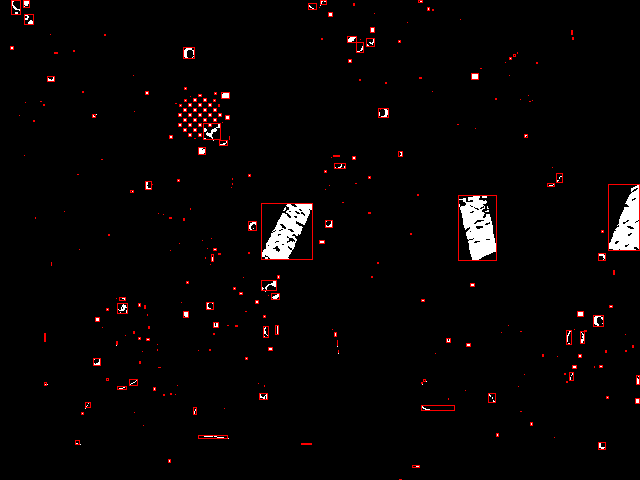
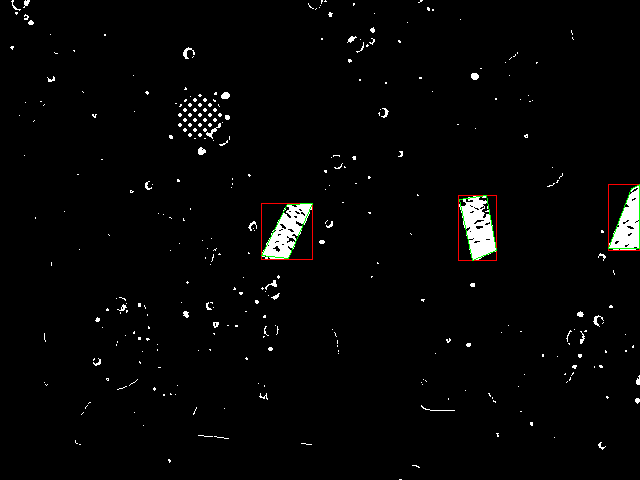
BlobProcessor.js Working!

diff --git a/Scripting/BlobProcessor.js b/Scripting/BlobProcessor.js
@@ -5,72 +5,82 @@ const png = drawing(require('pngjs').PNG);
 let blobs = [];
 let blobPointer = 0;
 let joined = 255; //the index of of the blob is last joined
+let frameBuffer = [...Array(1000)].map(e => Array(1000));
 
 fs.createReadStream('images/2019_Noise2.png')
     .pipe(new png())
-    .on('parsed', function() {
+    .on('parsed', function () {
 
-    //Process all Pixels
-    for (let y = 0; y < this.height; y++) {
-        for (let x = 0; x < this.width; x++) {
-            const idx = (this.width * y + x) << 2;
-            const value = (this.data[idx] + this.data[idx+1] + this.data[idx+2]) / 3; 
+        //Process all Pixels
+        for (let y = 0; y < this.height; y++) {
+            for (let x = 0; x < this.width; x++) {
+                const idx = (this.width * y + x) << 2;
+                const value = (this.data[idx] + this.data[idx + 1] + this.data[idx + 2]) / 3;
+                const threshold = value > 128;
 
-            if (value > 128) {
-                processPixel({x, y});
+                if (threshold) {
+                    processPixel({
+                        x,
+                        y
+                    });
+                }
+
+                frameBuffer[x][y] = threshold;
             }
         }
-    }
 
-    console.log("num:"+blobs.length);
+        console.log("num:" + blobs.length);
 
-    //Draw Blobs
-    for (let i = 0; i < blobs.length; i++) {
-        if (blobs[i].valid) {
-            this.drawRect(
-                blobs[i].boundTopLeft.x,
-                blobs[i].boundTopLeft.y,
-                blobs[i].boundBottomRight.x - blobs[i].boundTopLeft.x,
-                blobs[i].boundBottomRight.y - blobs[i].boundTopLeft.y,
-                this.colors.red(255)
-            );
+        //Draw Blobs
+        for (let i = 0; i < blobs.length; i++) {
+            const area = (blobs[i].boundBottomRight.x - blobs[i].boundTopLeft.x) * (blobs[i].boundBottomRight.y - blobs[i].boundTopLeft.y);
+            if (blobs[i].valid && area > 1000) {
+                this.drawRect(
+                    blobs[i].boundTopLeft.x,
+                    blobs[i].boundTopLeft.y,
+                    blobs[i].boundBottomRight.x - blobs[i].boundTopLeft.x,
+                    blobs[i].boundBottomRight.y - blobs[i].boundTopLeft.y,
+                    this.colors.red(255)
+                );
 
-            // this.drawLine(
-            //     blobs[i].cornerTopLeft.x,
-            //     blobs[i].cornerTopLeft.y,
-            //     blobs[i].cornerTopRight.x,
-            //     blobs[i].cornerTopRight.y,
-            //     this.colors.green(255)
-            // );
+                const stats = getStats(blobs[i]);
 
-            // this.drawLine(
-            //     blobs[i].cornerTopRight.x,
-            //     blobs[i].cornerTopRight.y,
-            //     blobs[i].cornerBottomRight.x,
-            //     blobs[i].cornerBottomRight.y,
-            //     this.colors.green(255)
-            // );
+                this.drawLine(
+                    stats.cornerTopLeft.x,
+                    stats.cornerTopLeft.y,
+                    stats.cornerTopRight.x,
+                    stats.cornerTopRight.y,
+                    this.colors.green(255)
+                );
 
-            // this.drawLine(
-            //     blobs[i].cornerBottomRight.x,
-            //     blobs[i].cornerBottomRight.y,
-            //     blobs[i].cornerBottomLeft.x,
-            //     blobs[i].cornerBottomLeft.y,
-            //     this.colors.green(255)
-            // );
+                this.drawLine(
+                    stats.cornerTopRight.x,
+                    stats.cornerTopRight.y,
+                    stats.cornerBottomRight.x,
+                    stats.cornerBottomRight.y,
+                    this.colors.green(255)
+                );
 
-            // this.drawLine(
-            //     blobs[i].cornerBottomLeft.x,
-            //     blobs[i].cornerBottomLeft.y,
-            //     blobs[i].cornerTopLeft.x,
-            //     blobs[i].cornerTopLeft.y,
-            //     this.colors.green(255)
-            // );
+                this.drawLine(
+                    stats.cornerBottomRight.x,
+                    stats.cornerBottomRight.y,
+                    stats.cornerBottomLeft.x,
+                    stats.cornerBottomLeft.y,
+                    this.colors.green(255)
+                );
+
+                this.drawLine(
+                    stats.cornerBottomLeft.x,
+                    stats.cornerBottomLeft.y,
+                    stats.cornerTopLeft.x,
+                    stats.cornerTopLeft.y,
+                    this.colors.green(255)
+                );
+            }
         }
-    }
 
-    this.pack().pipe(fs.createWriteStream('out.png'));
-});
+        this.pack().pipe(fs.createWriteStream('out.png'));
+    });
 
 //Process Pixel
 function processPixel(pos) {
@@ -80,7 +90,7 @@ function processPixel(pos) {
     for (let i = 0; i < blobs.length; i++) {
         //if point inside blob bounding box
         if (blobs[i].valid &&
-            pos.x + 2 > blobs[i].boundTopLeft.x && 
+            pos.x + 2 > blobs[i].boundTopLeft.x &&
             pos.x - 2 < blobs[i].boundBottomRight.x &&
             pos.y + 2 > blobs[i].boundTopLeft.y &&
             pos.y - 2 < blobs[i].boundBottomRight.y) {
@@ -94,24 +104,6 @@ function processPixel(pos) {
                 blobs[i].boundTopLeft.y = min(blobs[i].boundTopLeft.y, blobs[joined].boundTopLeft.y);
                 blobs[i].boundBottomRight.x = max(blobs[i].boundBottomRight.x, blobs[joined].boundBottomRight.x);
                 blobs[i].boundBottomRight.y = max(blobs[i].boundBottomRight.y, blobs[joined].boundBottomRight.y);
-                                    
-                //make new corners
-                // if (blobs[joined].cornerTopLeft.x+blobs[joined].cornerTopLeft.y < blobs[i].cornerTopLeft.x+blobs[i].cornerTopLeft.y) {
-                //     blobs[i].cornerTopLeft.x = blobs[joined].cornerTopLeft.x;
-                //     blobs[i].cornerTopLeft.y = blobs[joined].cornerTopLeft.y;
-                // }
-                // else if (blobs[joined].cornerTopRight.x-blobs[joined].cornerTopRight.y > blobs[i].cornerTopRight.x-blobs[i].cornerTopRight.y) {
-                //     blobs[i].cornerTopRight.x = blobs[joined].cornerTopRight.x;
-                //     blobs[i].cornerTopRight.y = blobs[joined].cornerTopRight.y;
-                // }
-                // else if (blobs[joined].cornerBottomRight.x+blobs[joined].cornerBottomRight.y > blobs[i].cornerBottomRight.x+blobs[i].cornerBottomRight.y) {
-                //     blobs[i].cornerBottomRight.x = blobs[joined].cornerBottomRight.x;
-                //     blobs[i].cornerBottomRight.y = blobs[joined].cornerBottomRight.y;
-                // }
-                // else if (blobs[joined].cornerBottomLeft.x-blobs[joined].cornerBottomLeft.y < blobs[i].cornerBottomLeft.x-blobs[i].cornerBottomLeft.y) {
-                //     blobs[i].cornerBottomLeft.x = blobs[joined].cornerBottomLeft.x;
-                //     blobs[i].cornerBottomLeft.y = blobs[joined].cornerBottomLeft.y;
-                // }
             }
 
             joined = i;
@@ -125,42 +117,68 @@ function processPixel(pos) {
                 blobs[i].boundTopLeft.y = blobs[i].boundTopLeft.y - 1;
             else if (pos.y + 1 > blobs[i].boundBottomRight.y)
                 blobs[i].boundBottomRight.y = blobs[i].boundBottomRight.y + 1;
-
-            //move corner vertexes
-            // if (pos.x + pos.y < blobs[i].cornerTopLeft.x + blobs[i].cornerTopLeft.y) {
-            //     blobs[i].cornerTopLeft.x = pos.x;
-            //     blobs[i].cornerTopLeft.y = pos.y;
-            // }
-            // else if (pos.x - pos.y > blobs[i].cornerTopRight.x - blobs[i].cornerTopRight.y) {
-            //     blobs[i].cornerTopRight.x = pos.x;
-            //     blobs[i].cornerTopRight.y = pos.y;
-            // }
-            // else if (pos.x + pos.y > blobs[i].cornerBottomRight.x + blobs[i].cornerBottomRight.y) {
-            //     blobs[i].cornerBottomRight.x = pos.x;
-            //     blobs[i].cornerBottomRight.y = pos.y;
-            // }
-            // else if (pos.x - pos.y < blobs[i].cornerBottomLeft.x - blobs[i].cornerBottomLeft.y) {
-            //     blobs[i].cornerBottomLeft.x = pos.x;
-            //     blobs[i].cornerBottomLeft.y = pos.y;
-            // }
         }
     }
 
     //didnt join any blobs --> make new blob
     if (joined == 255) {
         blobs[blobPointer] = {
-            boundTopLeft: {x:pos.x, y:pos.y},
-            boundBottomRight: {x:pos.x + 1, y:pos.y + 1},
-            // cornerTopLeft: {x:pos.x, y:pos.y},
-            // cornerTopRight: {x:pos.x, y:pos.y}, //x+1?
-            // cornerBottomRight: {x:pos.x, y:pos.y}, //x+1,y+1?
-            // cornerBottomLeft: {x:pos.x, y:pos.y}, //y+1?
+            boundTopLeft: {
+                x: pos.x,
+                y: pos.y
+            },
+            boundBottomRight: {
+                x: pos.x + 1,
+                y: pos.y + 1
+            },
             valid: 1,
             reserved: 0
         };
         blobPointer = blobPointer + 1;
         fixBlobPointer();
     }
+}
+
+//Get Stats
+function getStats(blob) {
+    const middleX = (blob.boundTopLeft.x + blob.boundBottomRight.x) / 2;
+    const middleY = (blob.boundTopLeft.y + blob.boundBottomRight.y) / 2;
+
+    let cornerTopLeft = {x: middleX, y: middleY},
+        cornerTopRight = {x: middleX, y: middleY},
+        cornerBottomRight = {x: middleX, y: middleY},
+        cornerBottomLeft = {x: middleX, y: middleY};
+
+    for (let y = blob.boundTopLeft.y; y < blob.boundBottomRight.y; y++) {
+        for (let x = blob.boundTopLeft.x; x < blob.boundBottomRight.x; x++) {
+            if (frameBuffer[x][y]) {
+                //move corner vertexes
+                if (x + y < cornerTopLeft.x + cornerTopLeft.y) {
+                    cornerTopLeft.x = x;
+                    cornerTopLeft.y = y;
+                }
+                else if (x - y > cornerTopRight.x - cornerTopRight.y) {
+                    cornerTopRight.x = x;
+                    cornerTopRight.y = y;
+                }
+                else if (x + y > cornerBottomRight.x + cornerBottomRight.y) {
+                    cornerBottomRight.x = x;
+                    cornerBottomRight.y = y;
+                }
+                else if (x - y < cornerBottomLeft.x - cornerBottomLeft.y) {
+                    cornerBottomLeft.x = x;
+                    cornerBottomLeft.y = y;
+                }
+            }
+        }
+    }
+
+    return {
+        cornerTopLeft,
+        cornerTopRight,
+        cornerBottomRight,
+        cornerBottomLeft
+    };
 }
 
 //Fix Blob Pointer
@@ -171,7 +189,7 @@ function fixBlobPointer() {
     //     if (blobPointer > blobs.length - 1) {
     //         blobPointer = 0;
     //     }
-        
+
     //     for (let i = 0; i < blobs.length; i++) {
     //         if (!blobs[i].valid) {
     //             blobPointer = i;
